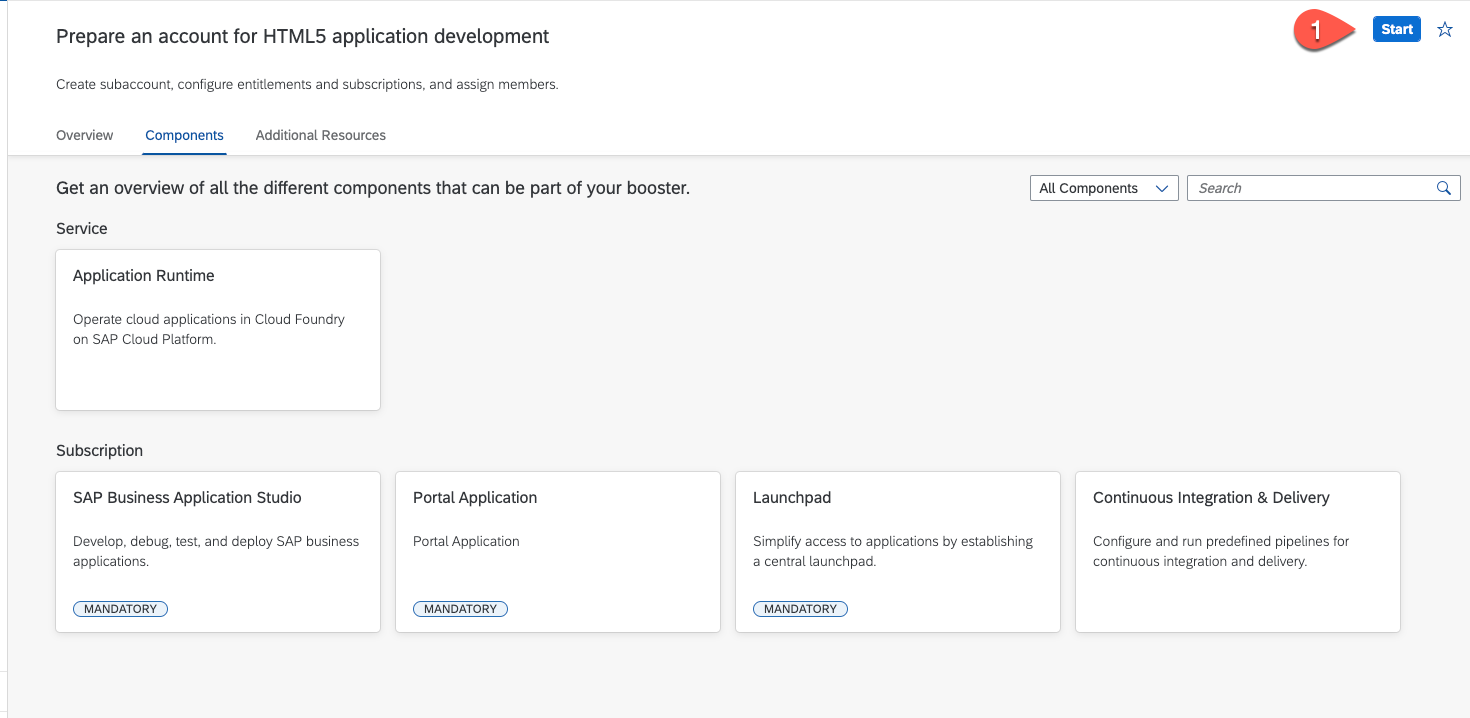
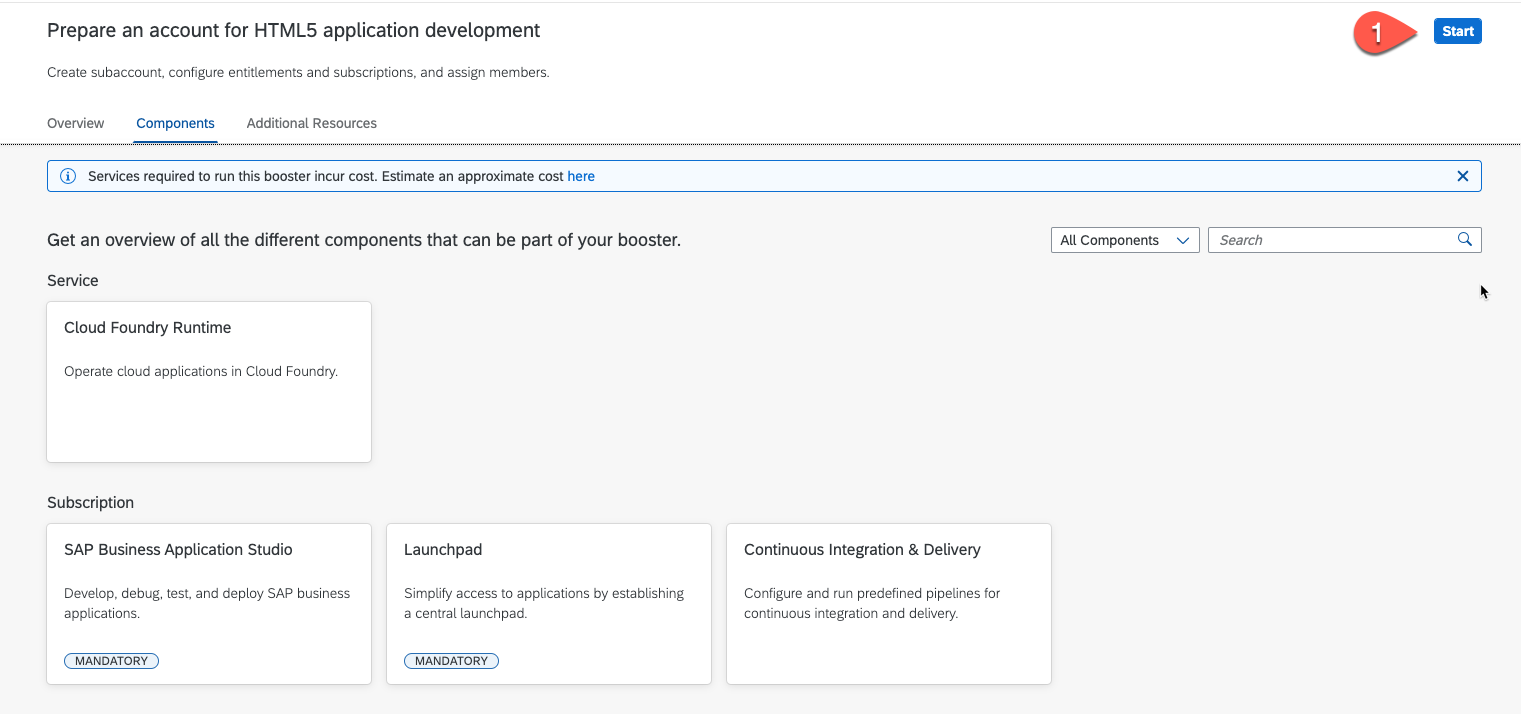
fix btp setup

diff --git a/mission/scp-setup/README.md b/mission/scp-setup/README.md
@@ -59,16 +59,10 @@ Before running the booster please check for which regions and infrastructures th
     ![Check Prerequisites](./images/booster4.png)
  
 5.  Setup Subaccount and check/assign Entitlements: 
-    Here you set the necessary quota for running HTML5 applications on your subaccount.
-    For running this mission, below mentioned quota of the services are the minimum requirements, for building additional applications in your subaccount you have to increase the quota accordingly.
-
-    If you do not entitlement for the Continous Integration & Delivery service it will not appear in the list. For accounts with the consumption-based model you can delete it, if you don't want to use it as it is an optional service.
-
-    For the runtime of the HTML5 application you can either use the Portal and Launchpad service - so only one of them is needed. In this mission we use the Launchpad service as we don't need the additional functionalities of the SAP Portal service. Therefore we remove the Portal service but you could also keep it and remove the Launchpad instead - don't keep both.   
+    
+    If you do not have set an entitlement for the **Continous Integration & Delivery** service it will not appear in the list. For accounts with the consumption-based model you can delete it, if you don't want to use it. It is optional for this mission.
     
     ![Booster Overview](./images/booster5a.png)
-
- 
    
 6.  Setup Subaccount credentials 
     1.  Set Subaccount name
@@ -83,10 +77,10 @@ Before running the booster please check for which regions and infrastructures th
 
 
 
-7.  Add Users - in this section we can add additional users as administrators and developers for the subaccount. The user who is using the Booster is added automatically as **Administrator** and also added as a Security Admin.
-    1. Select your user origin 
-    2. Add administrator
-    3. Add developer
+7.  Add Users - in this section we can add additional users as administrators and developers for the subaccount. The user who is using the Booster is added automatically as **Administrator** and also added as a Security Admin. 
+    1. Select your user origin - that's your standard Identity & Authentication service  
+    2. Add administrators
+    3. Add developers
     4. Press Next.
 
     ![Booster Overview](./images/booster6.png)
@@ -140,20 +134,14 @@ In your new subaccount check the following
   
    Click on "Go to Application" to see if you're able to access the subscriptions.
 
-
      ![Check account](./images/openBizAppStudio.png)
-
-
-
 
 ## Summary
 
 This Booster has automated a couple of steps for setting up a SAP BTP subaccount for building and running HTML5 applications. This includes the following setup steps, which could also be done manually:
 
 * [Setup of SAP BTP Environment](https://help.sap.com/viewer/368c481cd6954bdfa5d0435479fd4eaf/Cloud/en-US/302b47b11e1749c3aa9478f4123fc216.html)
-* [Setup SAP Business Application Studio](https://help.sap.com/viewer/c8f199cdcb7b48f2adc1bb3ec44e4dc4/Trial/en-US/19611ddbe82f4bf2b493283e0ed602e5.html)
+* [Setup SAP Business Application Studio](https://help.sap.com/viewer/9d1db9835307451daa8c930fbd9ab264/Cloud/en-US/6331319fd9ea4f0ea5331e21df329539.html)
 * [Setup Launchpad](https://help.sap.com/viewer/8c8e1958338140699bd4811b37b82ece/Cloud/en-US/fd79b232967545569d1ae4d8f691016b.html)
 * [Setup SAP Continous Integration and Delivery](https://help.sap.com/viewer/99c72101f7ee40d0b2deb4df72ba1ad3/Cloud/en-US/719acaf61e4b4bf0a496483155c52570.html)
-* [HTML5 Applications](https://help.sap.com/viewer/29badeeee3684338b2e870139bdc4d86/Cloud/en-US/3db887a26f6e44bd929f4ccdb9e7f5d7.html)
-* [Setup SAP Cloud Portal - optional](https://help.sap.com/viewer/ad4b9f0b14b0458cad9bd27bf435637d/Cloud/en-US/fd79b232967545569d1ae4d8f691016b.html)
 
